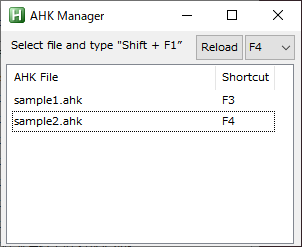
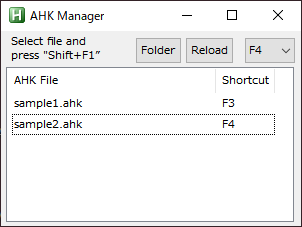
update README.md

diff --git a/README.md b/README.md
@@ -20,6 +20,14 @@ Manage AHK Script Shortcuts
 5. Select the AHK file from the list and set up a shortcut.
 6. Focus on another window, and then press the shortcut.
 
+### GUI
+
+- Folder Button : Open the same folder as the #AHKManager.ahk
+- Reload Button : Update the file list.
+- Dropdown List : Set a shortcut.
+- Double-click Item in List : Edit the selected file.
+
+
 ## Settings
 
 All settings are written in the .AHKManager.ini file.
